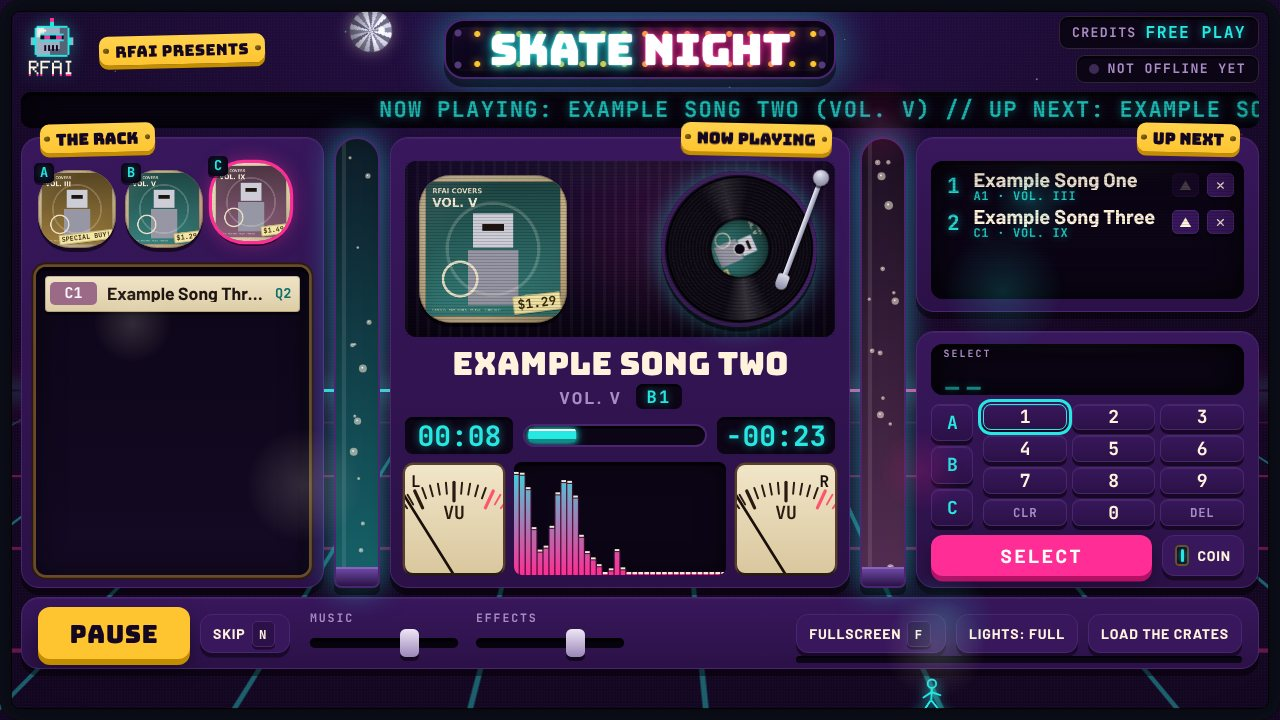
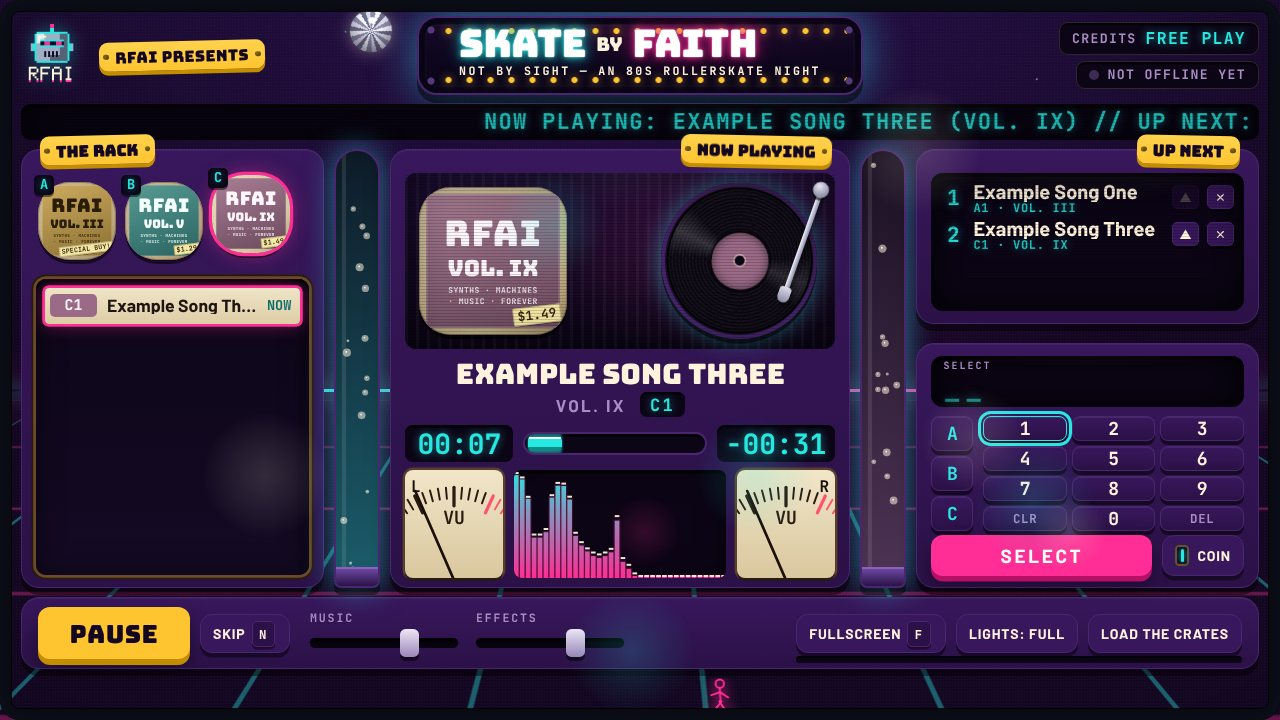
feat: rename to Skate by Faith - Not by Sight, An 80s Rollerskate Night
Title, boot header, INSERT COIN screen, marquee sign (with tagline), ticker
copy, page title, media-session album, README and DESIGN.md. Screenshots
retaken. Repo and cache names keep their internal 'skatenight' ids.

Claude-Session: https://claude.ai/code/session_019UepSTK4gBiwDTjkX8XKsc

diff --git a/index.html b/index.html
@@ -3,8 +3,8 @@
 <head>
 <meta charset="utf-8">
 <meta name="viewport" content="width=device-width, initial-scale=1">
-<title>Skate Night</title>
-<meta name="description" content="RFAI Skate Night - an 80s arcade jukebox for the rink.">
+<title>Skate by Faith - Not by Sight</title>
+<meta name="description" content="Skate by Faith, Not by Sight - an 80s rollerskate night. RFAI arcade jukebox for the rink.">
 <meta name="theme-color" content="#140722">
 <link rel="icon" type="image/png" href="rfai-logo.png">
 <link rel="preload" as="font" type="font/woff2" href="fonts/bungee-400.woff2" crossorigin>
@@ -28,7 +28,7 @@
   <div class="boot-stack">
     <img class="boot-logo" src="rfai-logo.png" width="512" height="512" alt="" fetchpriority="high">
     <div class="boot-screen">
-      <pre class="boot-log" id="boot-log"><span class="ln"><b>RFAI SKATE NIGHT</b> JUKEBOX SYSTEM</span><span class="ln">(C) 1983   ·   ALL RIGHTS RESERVED</span><span class="ln"> </span><span class="ln">  TONEARM CALIBRATION ......... <span class="ok">OK</span></span><span class="ln">  WHEEL BEARINGS LUBED ........ <span class="ok">OK</span></span><span class="ln">  LOADING THE CRATES ......... <span class="boot-cursor">&#9608;</span></span></pre>
+      <pre class="boot-log" id="boot-log"><span class="ln"><b>RFAI SKATE BY FAITH</b> JUKEBOX SYSTEM</span><span class="ln">(C) 1983   ·   ALL RIGHTS RESERVED</span><span class="ln"> </span><span class="ln">  TONEARM CALIBRATION ......... <span class="ok">OK</span></span><span class="ln">  WHEEL BEARINGS LUBED ........ <span class="ok">OK</span></span><span class="ln">  LOADING THE CRATES ......... <span class="boot-cursor">&#9608;</span></span></pre>
     </div>
   </div>
   <div class="boot-flash"></div>
@@ -37,11 +37,12 @@
 <!-- ============ 2. ATTRACT: INSERT COIN ============
      The click / tap / key press here is the gesture browsers demand
      before they allow any sound. -->
-<button class="attract" id="attract" type="button" hidden>
+<button class="attract" id="attract" type="button" aria-label="Skate by Faith, Not by Sight. Insert coin to start." hidden>
   <span class="attract-inner">
     <img class="attract-logo" src="rfai-logo.png" width="512" height="512" alt="RFAI">
     <span class="attract-presents">RFAI presents</span>
-    <span class="attract-title"><span>Skate</span> <span>Night</span></span>
+    <span class="attract-title"><span>Skate</span> <span class="by">by</span> <span>Faith</span></span>
+    <span class="attract-tagline">Not by Sight &mdash; An 80s Rollerskate Night</span>
     <span class="attract-coin">INSERT COIN</span>
     <span class="attract-sub" id="attract-sub">PRESS ANY KEY OR CLICK TO START</span>
   </span>
@@ -69,7 +70,8 @@
     </div>
 
     <div class="marquee-sign">
-      <h1 class="wordmark"><span class="w-cyan">Skate</span> <span class="w-mag">Night</span></h1>
+      <h1 class="wordmark"><span class="w-cyan">Skate</span> <span class="by">by</span> <span class="w-mag">Faith</span></h1>
+      <p class="wordmark-sub">Not by Sight &mdash; An 80s Rollerskate Night</p>
     </div>
 
     <div class="marquee-status">
@@ -80,7 +82,7 @@
   </header>
 
   <div class="ticker screen" role="marquee" aria-label="Announcements">
-    <div class="ticker-lane"><span class="ticker-text" id="ticker-text">WELCOME TO SKATE NIGHT</span></div>
+    <div class="ticker-lane"><span class="ticker-text" id="ticker-text">WELCOME TO SKATE BY FAITH</span></div>
   </div>
 
   <main class="cabinet">

diff --git a/styles.css b/styles.css
@@ -1,5 +1,5 @@
 /* ===========================================================
-   SKATE NIGHT - the jukebox
+   SKATE BY FAITH (Not by Sight - an 80s rollerskate night) - the jukebox
    One machine, three layers of material:
      CABINET   purple plastic panels with a hard offset shadow, gold
                title tabs screwed on at alternating tilt, arcade buttons
@@ -342,7 +342,7 @@ body.on-attract .rig{ visibility:hidden; }
 .marquee-status .led-chip{ min-width:0; }
 
 .marquee-sign{
-  position:relative; padding:.36rem 2.2rem .3rem;
+  position:relative; padding:.3rem 2rem .8rem;
   background:radial-gradient(120% 140% at 50% -10%, rgba(255,45,149,.12), transparent 55%), linear-gradient(180deg, #120826, #0A0417);
   border:.14rem solid var(--cab-edge); border-radius:1rem;
   box-shadow:0 .4rem 0 rgba(0,0,0,.5), inset 0 0 0 .32rem #0A0417, inset 0 0 0 .38rem rgba(255,255,255,.04), 0 0 2.2rem var(--tube-glow);
@@ -367,9 +367,15 @@ body.on-attract .rig{ visibility:hidden; }
 }
 .wordmark{
   margin:0; font-family:var(--font-display); font-weight:400; line-height:1; text-transform:uppercase;
-  font-size:2.15rem; letter-spacing:-.01em; white-space:nowrap; position:relative; z-index:1;
+  font-size:1.9rem; letter-spacing:-.01em; white-space:nowrap; position:relative; z-index:1;
 }
 .wordmark span{ color:#fff; display:inline-block; }
+/* the little word between the two tubes is plain plastic lettering, not neon */
+.wordmark .by, .attract-title .by{ font-size:.5em; vertical-align:.32em; color:var(--cream); text-shadow:none; margin:0 .1em; }
+.wordmark-sub{
+  margin:.15rem 0 0; text-align:center; position:relative; z-index:1; white-space:nowrap;
+  font:700 .58rem/1 var(--font-mono); letter-spacing:.2em; text-transform:uppercase; color:var(--cream);
+}
 .w-cyan{ text-shadow:0 0 .06rem #fff, 0 0 .3rem rgba(37,232,226,.95), 0 0 .75rem rgba(37,232,226,.55), 0 0 1.4rem rgba(37,232,226,.25), -.05rem 0 0 rgba(37,232,226,.3), .05rem 0 0 rgba(255,45,149,.2); }
 .w-mag{ text-shadow:0 0 .06rem #fff, 0 0 .3rem rgba(255,45,149,.95), 0 0 .75rem rgba(255,45,149,.55), 0 0 1.4rem rgba(255,45,149,.25), -.05rem 0 0 rgba(255,45,149,.3), .05rem 0 0 rgba(37,232,226,.2); }
 
@@ -731,6 +737,7 @@ input[type="range"]::-moz-range-thumb{ width:.95rem; height:1.4rem; border:0; bo
 }
 .attract:hover .attract-coin{ filter:brightness(1.06); }
 .attract:active .attract-coin{ transform:translateY(.4rem); box-shadow:0 .08rem 0 var(--gold-deep); }
+.attract-tagline{ margin-top:-.2rem; font:700 1.25rem/1.2 var(--font-body); letter-spacing:.16em; text-transform:uppercase; color:var(--cream); }
 .attract-sub{ font:700 1.05rem var(--font-mono); letter-spacing:.18em; text-transform:uppercase; color:var(--cyan); text-shadow:0 0 .6rem rgba(37,232,226,.6); min-height:1.3rem; }
 @keyframes attract-blink{ 50%{ color:rgba(20,7,34,.35); } }
 

diff --git a/copy.js b/copy.js
@@ -53,7 +53,8 @@ export const BOOT_POOL = [
 
 /* The scrolling LED ticker. Mixed in with NOW PLAYING / UP NEXT. */
 export const TICKER_LINES = [
-  'WELCOME TO SKATE NIGHT',
+  'WELCOME TO SKATE BY FAITH',
+  'NOT BY SIGHT - AN 80S ROLLERSKATE NIGHT',
   'PICK A SONG ON THE KEYPAD AND PRESS SELECT',
   'RFAI - SYNTHS, MACHINES, MUSIC, FOREVER',
   'KEEP TO THE RIGHT AND STAY ON YOUR WHEELS',
@@ -109,7 +110,7 @@ export const ATTRACT_LINES = [
   'PRESS ANY KEY TO START THE NIGHT',
   'ONE PLAYER OR ONE HUNDRED SKATERS',
   'PICK A SONG - BE THE DJ',
-  'RFAI PRESENTS SKATE NIGHT',
+  'RFAI PRESENTS SKATE BY FAITH',
   'TODAY ONLY - SPECIAL BUY: GOOD TIMES',
   'USED VINYL - LOVED BY MANY',
   '33 1/3 R.P.M. OF PURE FUN',

diff --git a/rink.js b/rink.js
@@ -55,7 +55,7 @@ export function updateMediaSession(track, volume, playing) {
       navigator.mediaSession.metadata = new MediaMetadata({
         title: track.title,
         artist: 'RFAI',
-        album: volume ? `Skate Night - ${volume.title}` : 'Skate Night',
+        album: volume ? `Skate by Faith - ${volume.title}` : 'Skate by Faith',
         artwork: art,
       });
     }

diff --git a/tests/copy.test.js b/tests/copy.test.js
@@ -119,3 +119,8 @@ test('composeTicker copes with nothing playing', () => {
   assert.ok(!text.includes('NOW PLAYING'));
   assert.ok(!text.includes('UP NEXT'));
 });
+
+test('the event name and tagline are in the ticker', () => {
+  assert.ok(TICKER_LINES.includes('WELCOME TO SKATE BY FAITH'));
+  assert.ok(TICKER_LINES.includes('NOT BY SIGHT - AN 80S ROLLERSKATE NIGHT'));
+});

diff --git a/fx.js b/fx.js
@@ -105,7 +105,7 @@ function renderBootLog(overlay, holdMs) {
   const test = ({ t, s, k }) => `  ${esc(t)} ${dots(t)} <span class="${k}">${esc(s)}</span>`;
 
   const rows = [
-    '<b>RFAI SKATE NIGHT</b> JUKEBOX SYSTEM',
+    '<b>RFAI SKATE BY FAITH</b> JUKEBOX SYSTEM',
     '(C) 1983   ·   ALL RIGHTS RESERVED',
     ' ',
     ...sample(BOOT_POOL, BOOT_TEST_LINES).map(test),

diff --git a/app.js b/app.js
@@ -795,7 +795,7 @@ async function main() {
 }
 
 main().catch((err) => {
-  console.error('[skate night] start-up failed', err);
+  console.error('[skate by faith] start-up failed', err);
   // Tell the person at the laptop instead of leaving a dead INSERT COIN screen.
   const sub = document.getElementById('attract-sub');
   if (sub) {

diff --git a/sw.js b/sw.js
@@ -1,5 +1,5 @@
 /* ============================================================
-   SERVICE WORKER - lets Skate Night keep running with no internet.
+   SERVICE WORKER - lets Skate by Faith keep running with no internet.
 
    Two kinds of file, two strategies:
 

diff --git a/neon.js b/neon.js
@@ -15,7 +15,8 @@
 const PATTERNS = ['neon-flicker-a', 'neon-flicker-b', 'neon-flicker-c'];
 
 const TUBES = [
-  '.wordmark span',
+  '.w-cyan',
+  '.w-mag',
   '.neon',
   '.panel-title-neon',
   '.led-chip .led',

diff --git a/README.md b/README.md
@@ -1,11 +1,16 @@
-# Skate Night - RFAI jukebox
+# Skate by Faith
 
-An 80s arcade jukebox that plays your RFAI playlist at the roller-skate night.
+**Not by Sight - An 80s Rollerskate Night**
+
+An 80s arcade jukebox, presented by RFAI, that plays your playlist at the
+roller-skate night.
 It is a website that runs on **one laptop** plugged into the projector. No
 accounts, no server, no database. You add songs by editing one file and uploading
 MP3s.
 
-Live address once switched on (see step 6):
+Live address once switched on (see step 6). The repository is still named
+`SkateNight`, so the address keeps that name; to change it, GitHub -> Settings ->
+Repository name (the address changes with it):
 `https://bhay95-collab.github.io/SkateNight/`
 
 ![The jukebox playing](docs/screenshots/04-now-playing.jpg)

diff --git a/DESIGN.md b/DESIGN.md
@@ -1,7 +1,7 @@
 # Design system - the jukebox
 
-Skate Night is an 1980s arcade jukebox that plays a playlist at a church
-roller-skate night, on one laptop plugged into a projector. It is a sibling of
+Skate by Faith ("Not by Sight - An 80s Rollerskate Night") is an 1980s arcade
+jukebox that plays a playlist at a church roller-skate night, on one laptop plugged into a projector. It is a sibling of
 the trivia quiz machine (`bhay95-collab/trivia_fridays`) and reuses its visual
 DNA on purpose. This file records the material system, motion rules, safety
 rules and constraints so future changes stay **one coherent object** instead of
